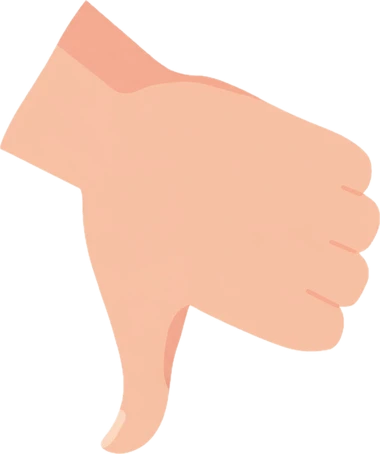
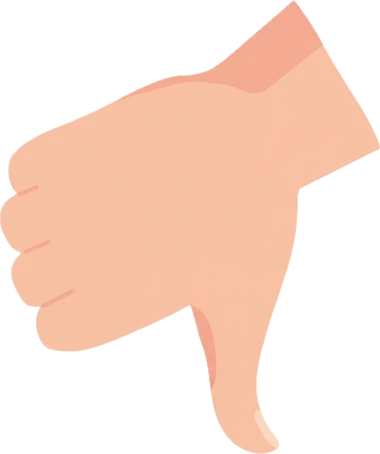
Направление поля: тыльная рука «палец вниз» теперь правая (убрано лишнее отражение)

diff --git a/app/t-lesson/[t_lessonId]/type-dirwalk.tsx b/app/t-lesson/[t_lessonId]/type-dirwalk.tsx
@@ -221,17 +221,16 @@ const WireScene = ({ cur, rings = [], dotCross = false, hideDir = false }: {
 // поверх, по ней бегут чёрточки и шеврон в сторону согнутых пальцев.
 // Ток вверх → пальцы спереди идут вправо; ток вниз → влево.
 const HG_W = 320, HG_H = 400
-// Руки — рисунки пользователя, ОТЗЕРКАЛЕНЫ (присланы левые — правило вышло бы
-// наоборот). Вверх: public/hands/grip-up.webp — видны ногти, пальцы спереди идут
+// Руки — рисунки пользователя. Вверх (ОТЗЕРКАЛЕНА — прислана левая): public/hands/grip-up.webp — видны ногти, пальцы спереди идут
 // вправо; повёрнута так, что большой палец строго вертикален вдоль провода.
-// Вниз: public/hands/grip-down.webp — ТЫЛЬНАЯ сторона, палец вниз (отдельная
-// картинка, не повёрнутая копия первой). Провод идёт вплотную к большому пальцу,
+// Вниз: public/hands/grip-down.webp — ТЫЛЬНАЯ сторона, палец вниз (исходник
+// уже правая рука — НЕ отражать, только повернуть на 180°). Провод идёт вплотную к большому пальцу,
 // со стороны кулака. frac — доли ширины/высоты картинки.
 const HG_WX = 150
 const HG_IMG_W = 210
 const HG_IMG = {
     up: { src: '/hands/grip-up.webp', h: 210 * 442 / 380, axis: 0.471, ring: 0.50 },
-    down: { src: '/hands/grip-down.webp', h: 210 * 454 / 380, axis: 0.473, ring: 0.46 },
+    down: { src: '/hands/grip-down.webp', h: 210 * 454 / 380, axis: 0.527, ring: 0.46 },
 }
 const hgImg = (cur: Cur) => (cur === 1 ? HG_IMG.up : HG_IMG.down)
 const hgImgY = (cur: Cur) => (HG_H - hgImg(cur).h) / 2
